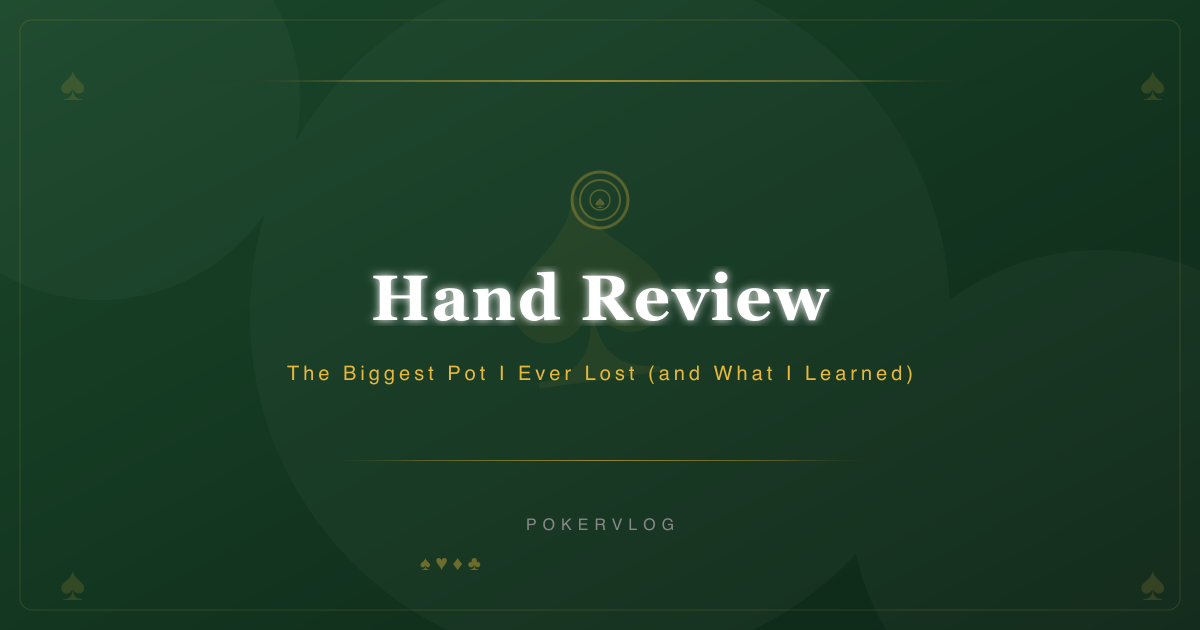
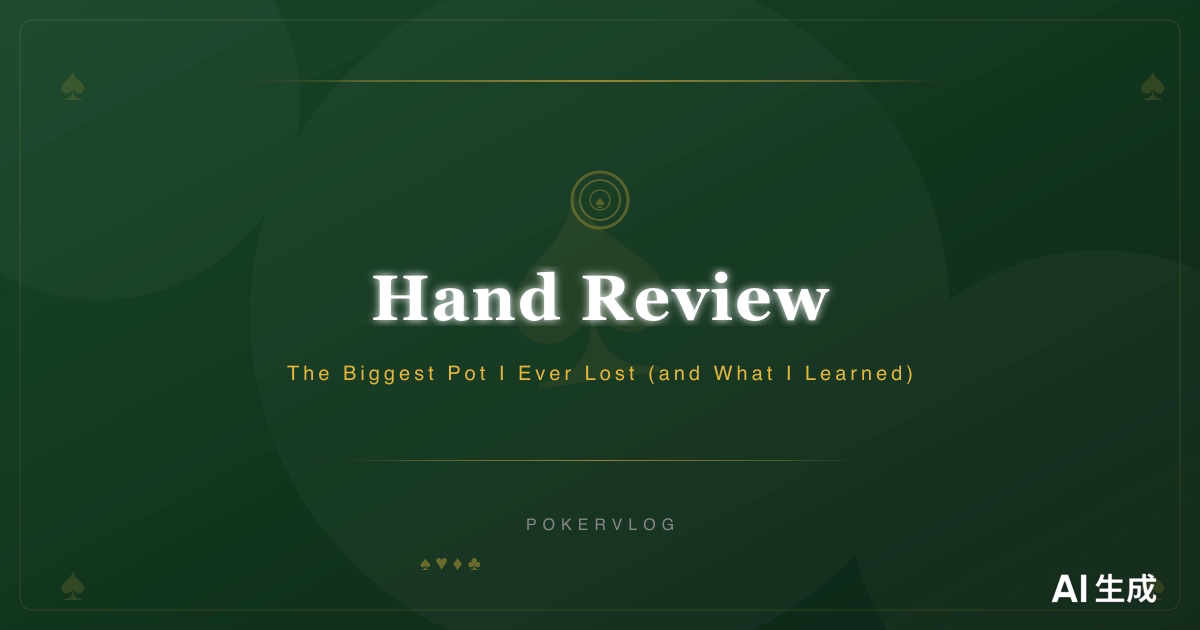
Daily vlog auto-publish

diff --git a/src/content/vlog/check-raise-bluffing-board-textures-that-favor-the-defender-2026-10-29.md b/src/content/vlog/check-raise-bluffing-board-textures-that-favor-the-defender-2026-10-29.md
@@ -1,0 +1,39 @@
+---
+title: "Check-Raise Bluffing: Board Textures That Favor the Defender"
+date: 2026-10-29
+excerpt: "Every session at the poker table teaches something new. Today I want to share a key insight that's been making a real difference in my win rate recently.    Pok"
+tags: ["bankroll", "bluffing", "math"]
+image: "/images/check-raise-bluffing-board-textures-that-favor-the-defender-2026-10-29.png"
+seo_description: "Every session at the poker table teaches something new. Today I want to share a key insight that's been making a real difference in my win rate recently.    Pok"
+---
+
+# Check-Raise Bluffing: Board Textures That Favor the Defender
+
+Every session at the poker table teaches something new. Today I want to share a key insight that's been making a real difference in my win rate recently.
+
+## The Concept
+
+Poker is a game of incomplete information. Every decision you make is based on probabilities, not certainties. The players who thrive are the ones who make slightly better decisions, slightly more often, over thousands of hands.
+
+## Practical Application
+
+In practice, this means focusing on the process rather than the outcome. You can make the perfect river call and still lose to a two-outer. That doesn't mean the call was wrong — it means variance happened.
+
+**Key points to remember:**
+
+- Review your hands based on the information available at the time of the decision, not the results
+- Track your all-in EV to separate luck from skill
+- Focus on volume — meaningful patterns only emerge after 10,000+ hands
+
+## Common Mistakes
+
+The biggest mistake I see intermediate players make is result-oriented thinking. They win a pot with a bad play and think they played well. They lose with a good play and think they made a mistake. This feedback loop is poison for improvement.
+
+## Summary
+
+Trust the math. Trust the process. The results will follow — but only if you put in the volume and stay disciplined.
+
+---
+
+*This vlog is part of the daily Poker Vlog series. For more strategy content, download the BPT App — the best free poker tracker with session logging and bankroll management.*
+

diff --git a/src/content/vlog/hand-review-the-biggest-pot-i-ever-lost-and-what-i-learned-2026-10-28.md b/src/content/vlog/hand-review-the-biggest-pot-i-ever-lost-and-what-i-learned-2026-10-28.md
@@ -1,10 +1,18 @@
 ---
 title: "Hand Review: The Biggest Pot I Ever Lost (and What I Learned)"
 date: 2026-10-28
-excerpt: "Every session at the poker table teaches something new. Today I want to share a key insight that's been making a real difference in my win rate recently.    Pok"
-tags: ["bankroll", "hand-analysis", "math"]
+excerpt: "Every session at the poker table teaches something new. Today I want to share a key insight that's been making a real difference in my win rate recently."
+tags: ["poker", "strategy"]
 image: "/images/hand-review-the-biggest-pot-i-ever-lost-and-what-i-learned-2026-10-28.png"
-seo_description: "Every session at the poker table teaches something new. Today I want to share a key insight that's been making a real difference in my win rate recently.    Pok"
+seo_description: "Every session at the poker table teaches something new. Today I want to share a key insight that's been making a real difference in my win rate recently."
+AIGC:
+    Label: "1"
+    ContentProducer: 001191440300708461136T1XGW3
+    ProduceID: ab20d8aff180ed14d0ce262937a7b993_1e8b5107d2dd11f196c5525400248c00
+    ReservedCode1: l4sNPhm5rCF2Z7/+EzgqWLRkBCkPyxrqAcHknm3KhT9HcgCiekq2RThE/PsL44w4I6R04eAGi6qDJd7PrLGWzIwA4BHmvVuKOuTsKpcs0k3VmoBFzV7VMZWITtkjm+v4BlyjWpqfVzwqpf8m7rxLi+rY4jfB/L2+v0ocrJcu9pia8dd5QLzPRjrwdHg=
+    ContentPropagator: 001191440300708461136T1XGW3
+    PropagateID: ab20d8aff180ed14d0ce262937a7b993_1e8b5107d2dd11f196c5525400248c00
+    ReservedCode2: l4sNPhm5rCF2Z7/+EzgqWLRkBCkPyxrqAcHknm3KhT9HcgCiekq2RThE/PsL44w4I6R04eAGi6qDJd7PrLGWzIwA4BHmvVuKOuTsKpcs0k3VmoBFzV7VMZWITtkjm+v4BlyjWpqfVzwqpf8m7rxLi+rY4jfB/L2+v0ocrJcu9pia8dd5QLzPRjrwdHg=
 ---
 
 # Hand Review: The Biggest Pot I Ever Lost (and What I Learned)
@@ -37,3 +45,4 @@ Trust the math. Trust the process. The results will follow — but only if you p
 
 *This vlog is part of the daily Poker Vlog series. For more strategy content, download the BPT App — the best free poker tracker with session logging and bankroll management.*
 
+*（内容由AI生成，仅供参考）*

diff --git a/README.md b/README.md
@@ -3,6 +3,12 @@
 每日自动发布的德州扑克策略 Vlog，记录从 $0.01/$0.02 到 $1/$2 的五年扑克旅程。
 
 ## Latest Vlogs
+### 2026-10-29 — Check-Raise Bluffing: Board Textures That Favor the Defender
+
+![Check-Raise Bluffing: Board Textures That Favor the Defender](https://cdn.jsdelivr.net/gh/BPTTangKe/poker-vlog@main/images/check-raise-bluffing-board-textures-that-favor-the-defender-2026-10-29.png)
+
+[Read full article](src/content/vlog/check-raise-bluffing-board-textures-that-favor-the-defender-2026-10-29.md)
+
 ### 2026-10-28 — Hand Review: The Biggest Pot I Ever Lost (and What I Learned)
 
 ![Hand Review: The Biggest Pot I Ever Lost (and What I Learned)](https://cdn.jsdelivr.net/gh/BPTTangKe/poker-vlog@main/images/hand-review-the-biggest-pot-i-ever-lost-and-what-i-learned-2026-10-28.png)
@@ -38,12 +44,6 @@
 ![From $0.01/$0.02 to $1/$2: My 5-Year Poker Journey](https://cdn.jsdelivr.net/gh/BPTTangKe/poker-vlog@main/images/from-001002-to-12-my-5-year-poker-journey-2026-10-23.png)
 
 [Read full article](src/content/vlog/from-001002-to-12-my-5-year-poker-journey-2026-10-23.md)
-
-### 2026-10-22 — GTO vs Exploitative Play: Finding the Right Balance
-
-![GTO vs Exploitative Play: Finding the Right Balance](https://cdn.jsdelivr.net/gh/BPTTangKe/poker-vlog@main/images/gto-vs-exploitative-play-finding-the-right-balance-2026-10-22.png)
-
-[Read full article](src/content/vlog/gto-vs-exploitative-play-finding-the-right-balance-2026-10-22.md)
 
 
 ## About
